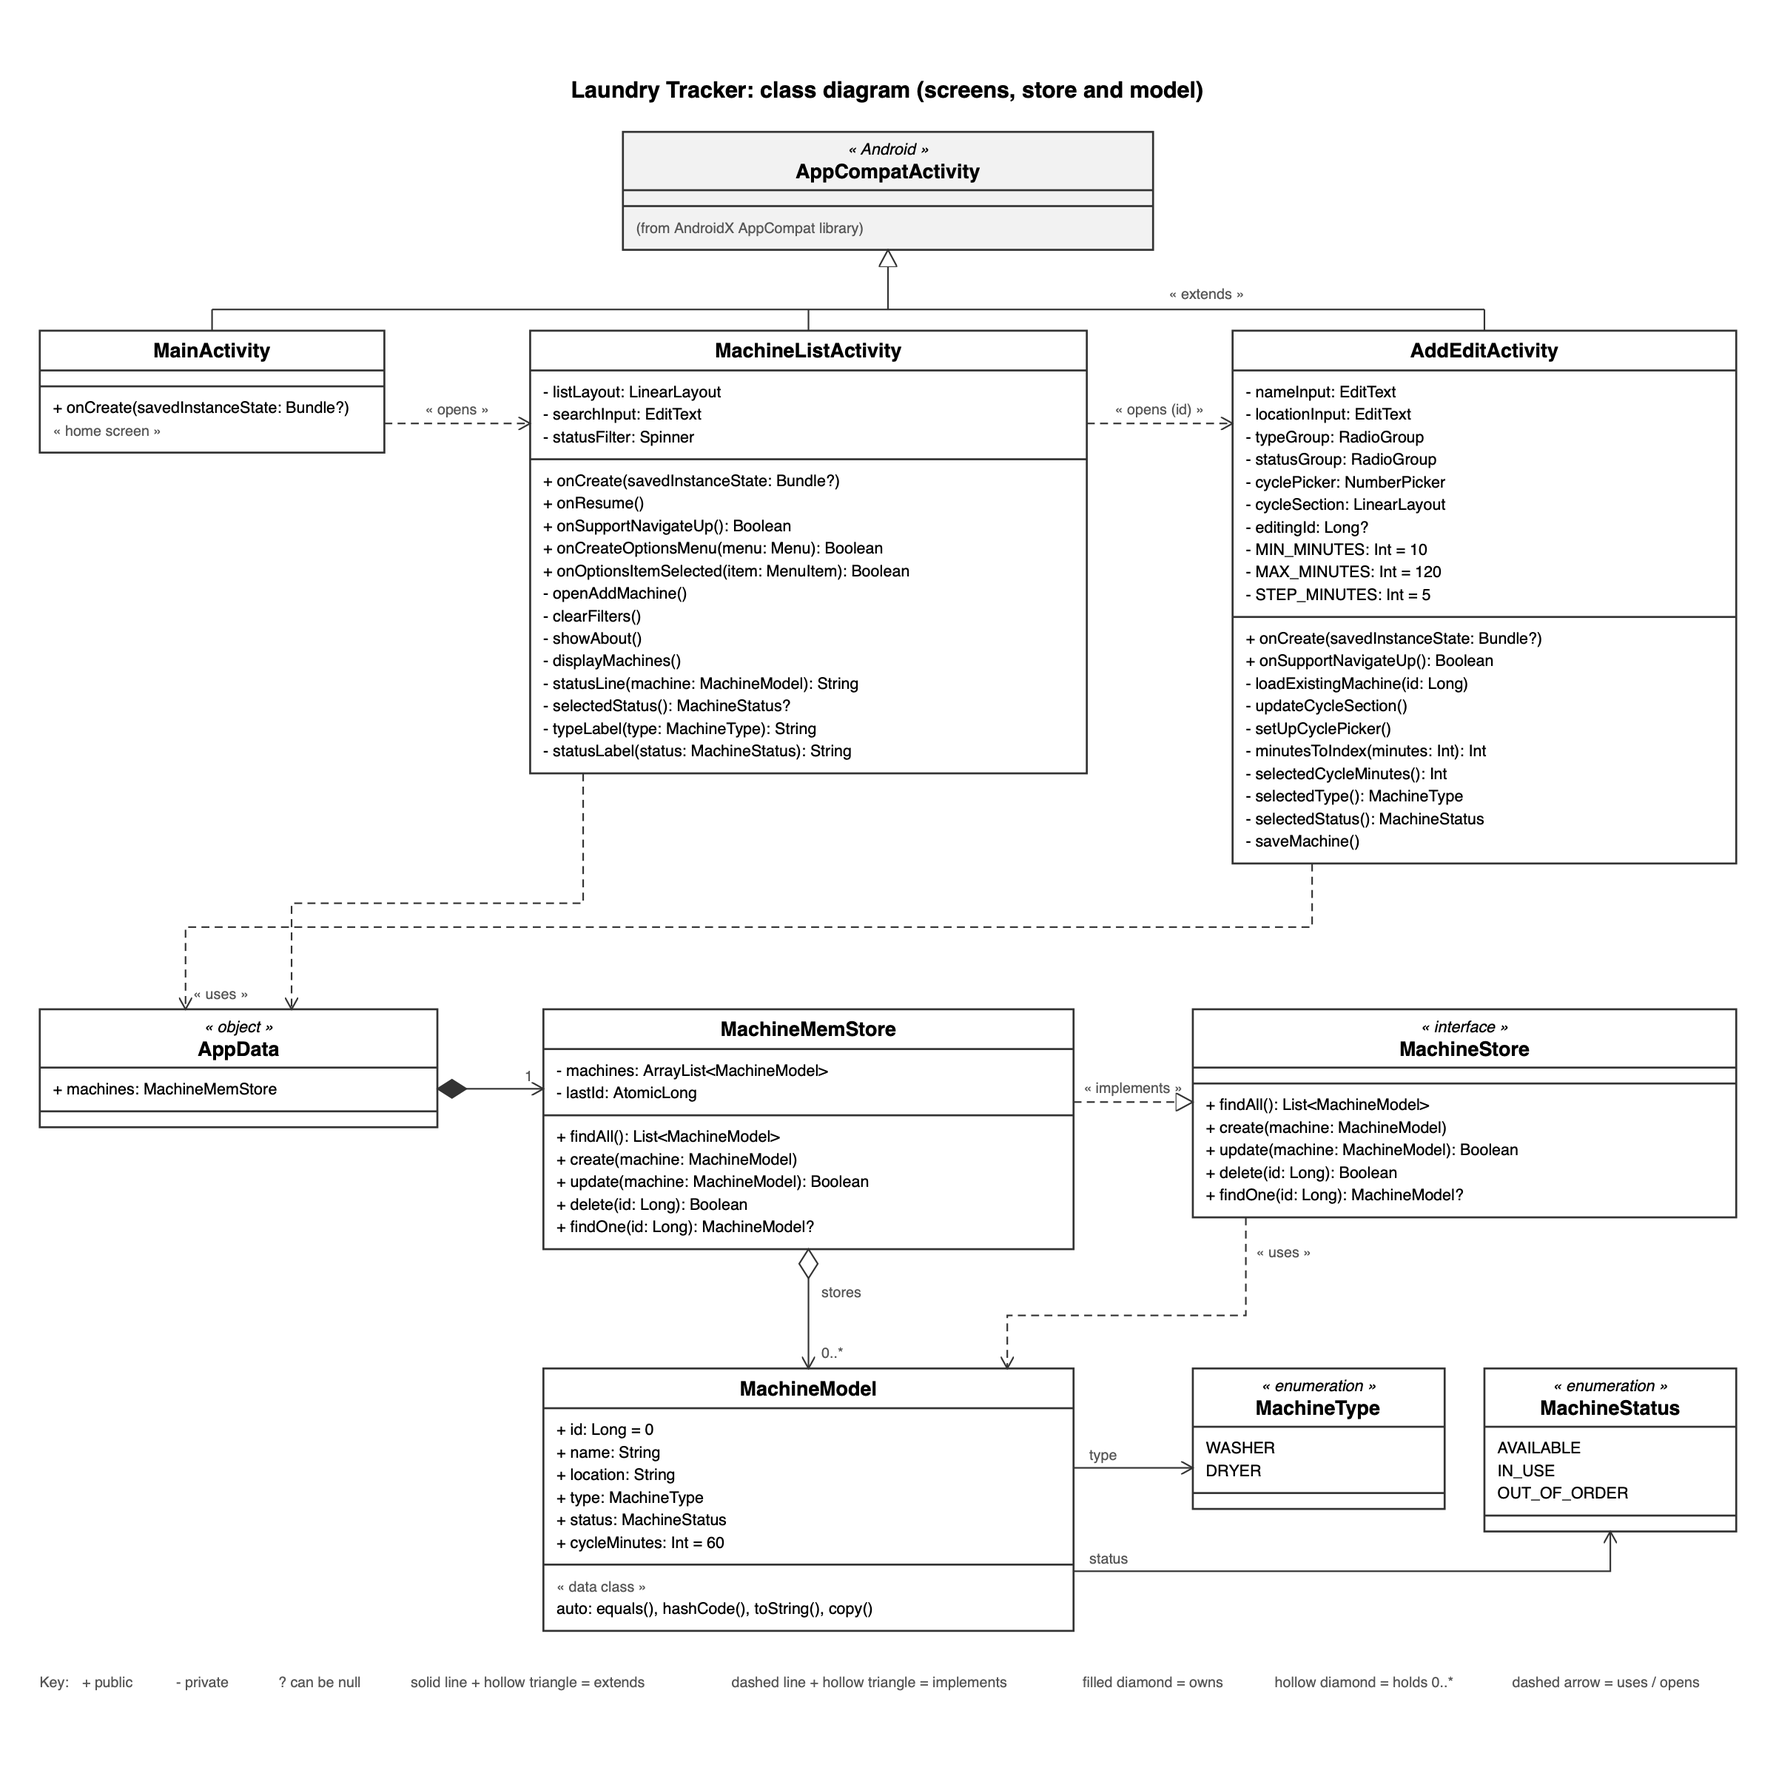
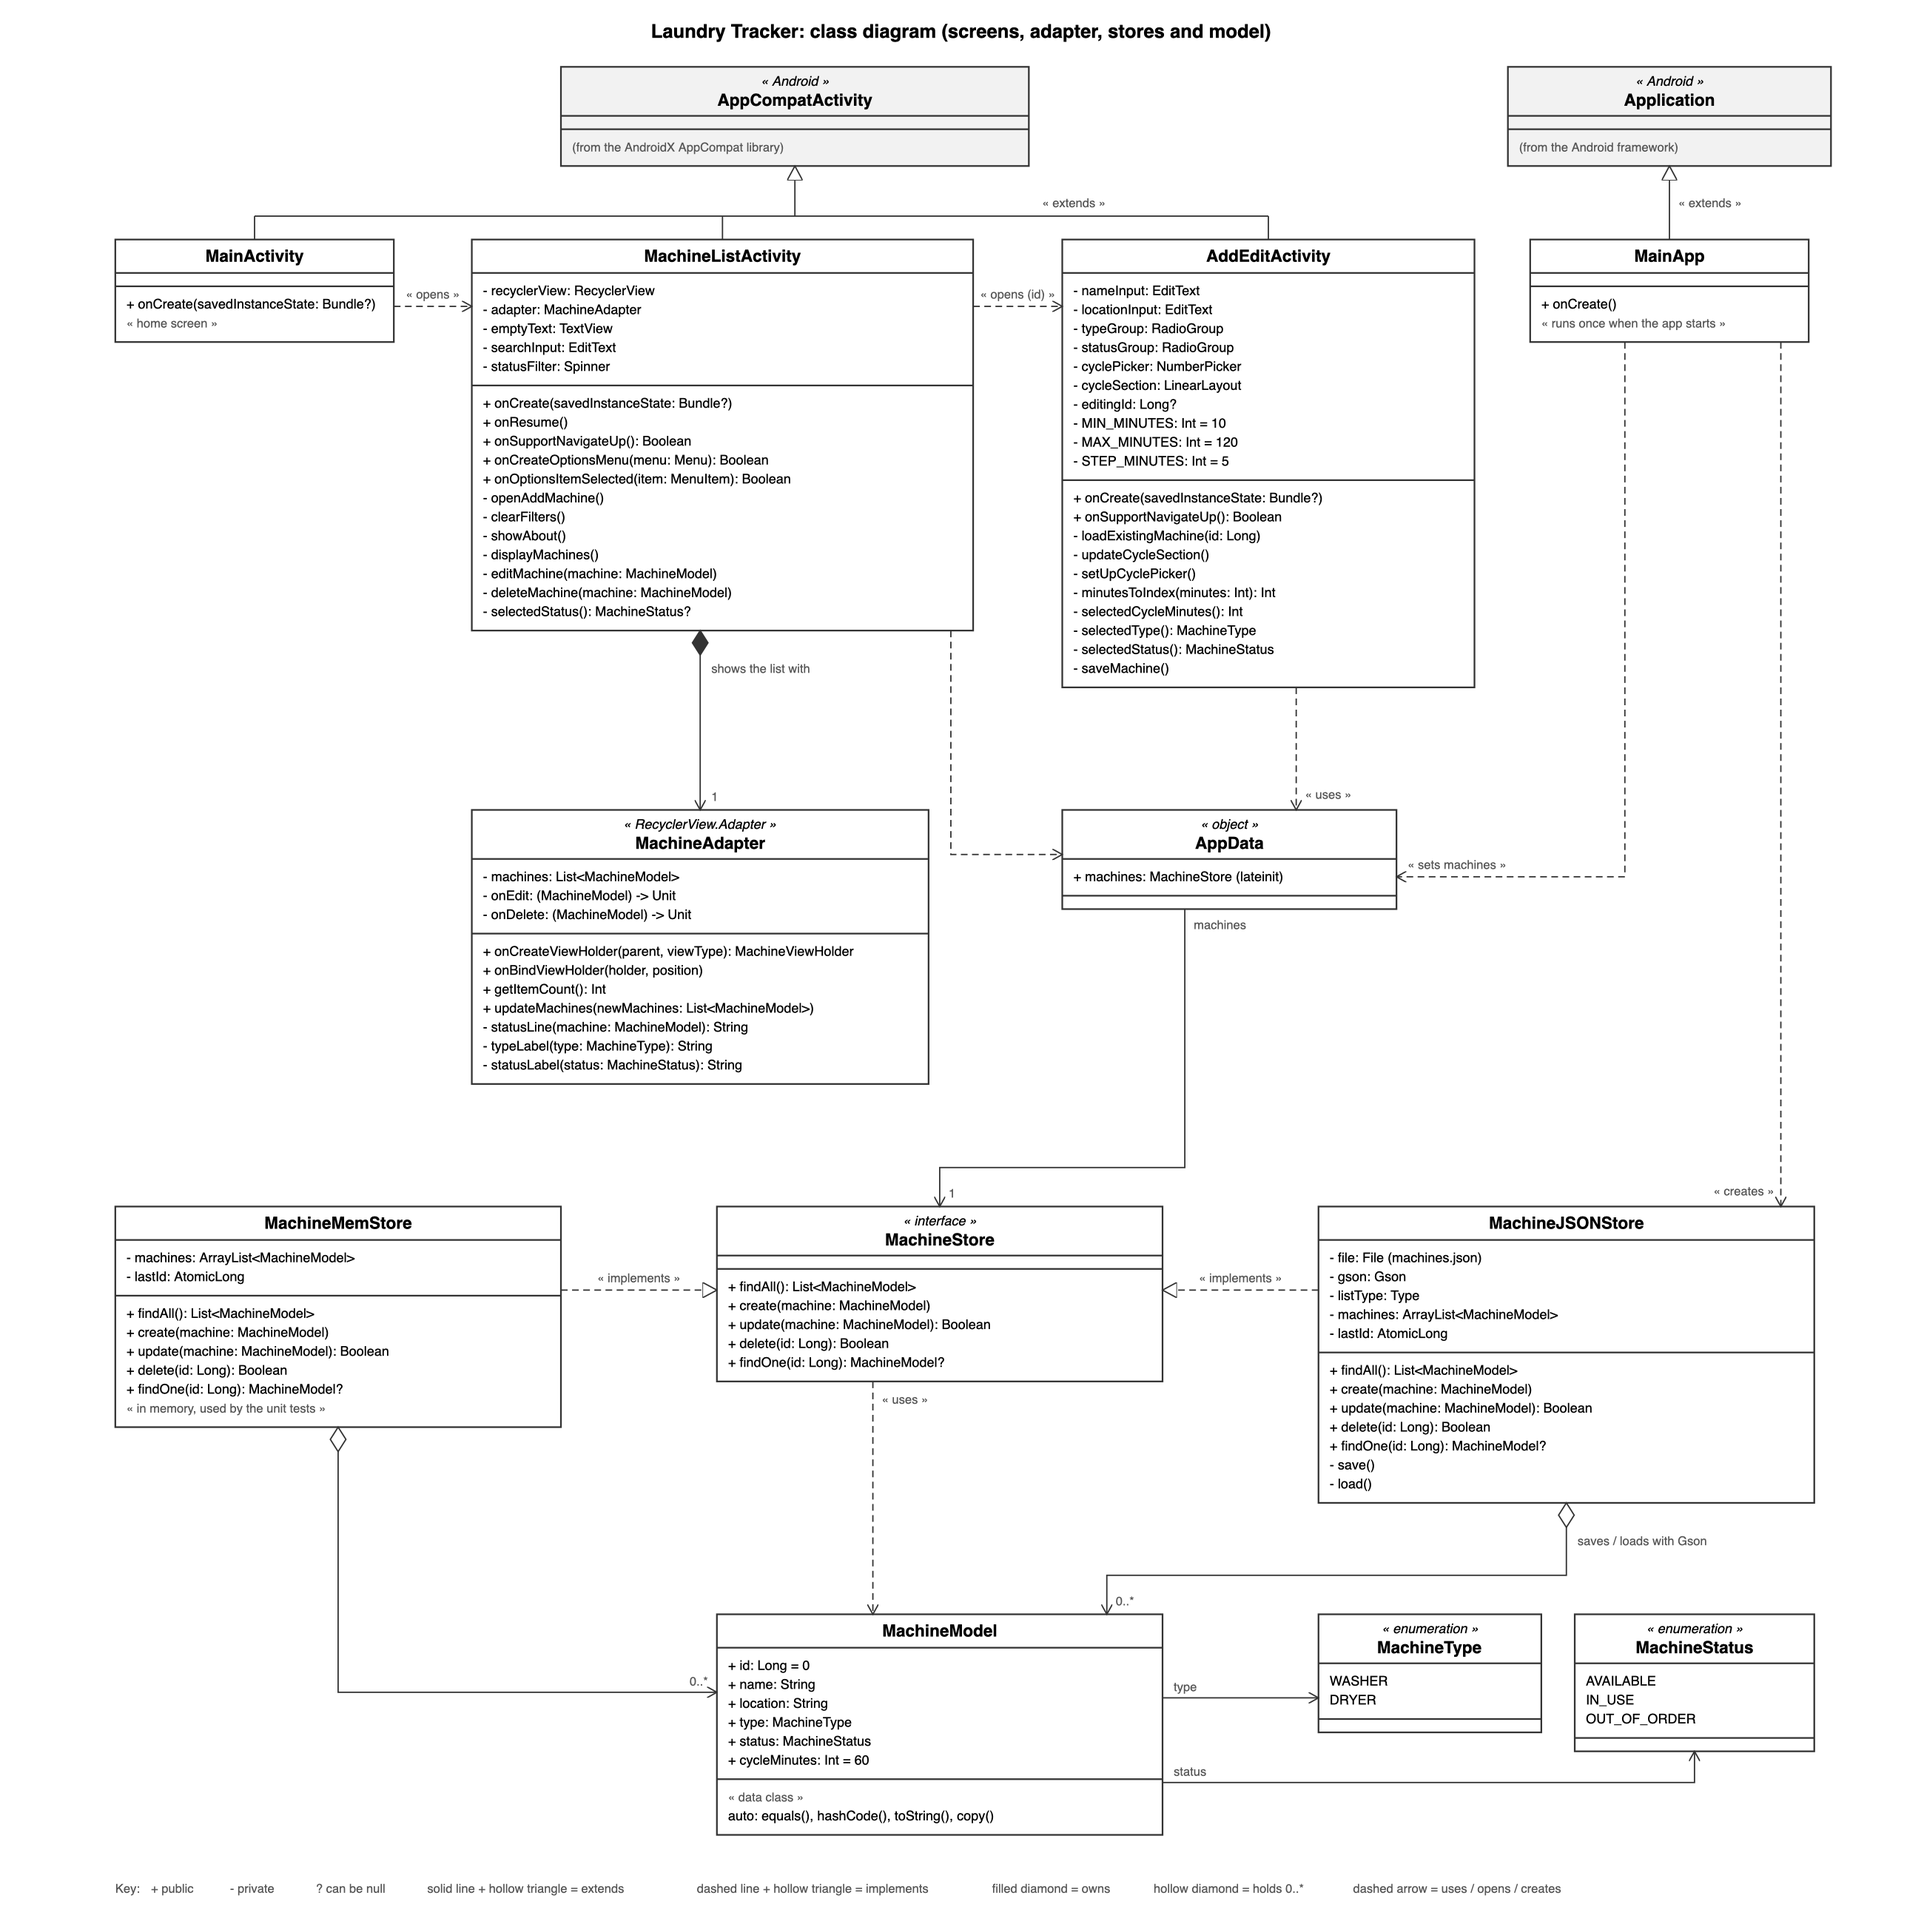
docs: update UML diagram and add README

diff --git a/README.md b/README.md
@@ -1,0 +1,78 @@
+# Laundry Tracker
+
+Laundry Tracker is a Kotlin Android app for keeping track of the laundry machines in a building, so you can check which washers and dryers are free before heading down. It was built for **Mobile Application Development (Assignment 1)** at SETU.
+
+## Features
+
+- **Home screen** with a View Machines button
+- **Add, list, edit and delete machines** (name, location, washer/dryer, status)
+- **Search** machines by name or location, and **filter** by status with a drop-down
+- **Cycle length** picked with a NumberPicker (10–120 minutes), shown only when a machine is *In use*
+- **Toolbar menu** with Add, Clear filters and About
+- **Up / Back navigation** between Home → Machines → Add/Edit
+- **Data validation**: a machine must have a name
+- **Saved to JSON**: machines are kept in `machines.json` and are still there after the app is closed
+- **Unit tests** for both stores
+
+## Screens
+
+| Screen | Class | Layout |
+|---|---|---|
+| Home | `MainActivity` | `activity_main.xml` |
+| Machines list | `MachineListActivity` + `MachineAdapter` | `activity_machine_list.xml`, `item_machine.xml` |
+| Add / Edit machine | `AddEditActivity` | `activity_add_edit.xml` |
+
+## Class diagram
+
+![Laundry Tracker class diagram](docs/laundrytracker-uml.png)
+
+([SVG version](docs/laundrytracker-uml.svg))
+
+- The three screens extend `AppCompatActivity`. Home opens the list, and the list opens the form (sending the machine's id when editing).
+- The machines list uses a `RecyclerView` with `MachineAdapter`, which turns each `MachineModel` into a row from `item_machine.xml`.
+- Every screen uses the same store through `AppData.machines`, typed as the `MachineStore` interface.
+- `MainApp` (an `Application` class) runs once when the app starts and sets `AppData.machines` to a `MachineJSONStore`.
+- `MachineJSONStore` and `MachineMemStore` both implement `MachineStore`. The JSON store saves to a file with Gson; the memory store is used in the unit tests.
+
+## Project structure
+
+```
+app/src/main/java/org/setu/laundrytracker/
+├── activities/   MainActivity, MachineListActivity, AddEditActivity
+├── adapters/     MachineAdapter
+├── main/         MainApp, AppData
+└── models/       MachineModel (+ MachineType, MachineStatus), MachineStore,
+                  MachineMemStore, MachineJSONStore
+```
+
+## Persistence
+
+Machines are saved by `MachineJSONStore` to `machines.json` in the app's private storage (`/data/data/org.setu.laundrytracker/files/`). The whole list is written after every add, edit or delete and read back when the app starts. New ids carry on from the highest saved id, so an id is never reused.
+
+To see the file, open **View → Tool Windows → Device Explorer** in Android Studio and go to `data/data/org.setu.laundrytracker/files/machines.json`.
+
+## Running the app
+
+1. Open the project folder in Android Studio.
+2. Let Gradle sync, choose an emulator (e.g. Pixel 4a, API 34) and press **Run**.
+
+From the terminal:
+
+```bash
+./gradlew assembleDebug testDebugUnitTest lintDebug
+```
+
+## Tests
+
+Unit tests are in `app/src/test/java/org/setu/laundrytracker/models/`:
+
+- `MachineMemStoreTest`: create, update, delete and cycle length on the in-memory store
+- `MachineJSONStoreTest`: saves to a temporary file, then reopens it to check machines, edits, deletes and ids are kept
+
+## Built with
+
+Kotlin, AndroidX AppCompat, RecyclerView, Gson, JUnit.
+
+## Development
+
+Each feature has a GitHub issue, its own branch and small commits that reference the issue, merged into `main` through a pull request.
